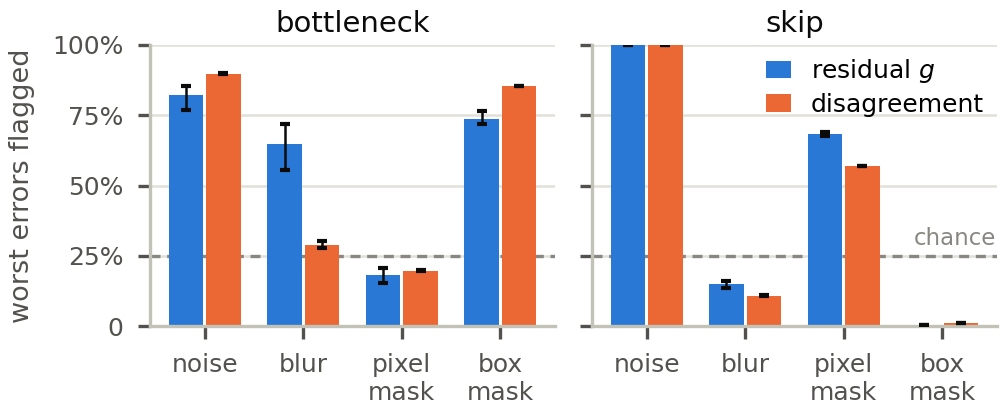
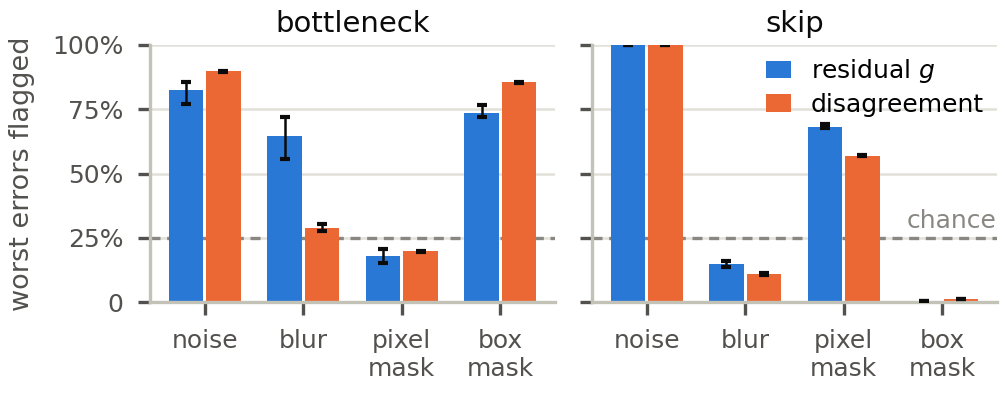
Tighten three report statements and polish Fig. 2
- report: the skip model's initial output spread is compared with clean
  images again (0.27), and the text again says a start as constant as the
  bottleneck's is not required. Disagreement ranks better within a level
  except for the skip model at lambda_id = 0. The abstract names the
  level-mean predictor and states the shared blind spots in a sentence of
  their own. Stable-but-wrong images are defined where they are counted, and
  the four settings are those of Table 2. Heading and float spacing are
  slightly tighter, so the report stays at three pages.
- Fig. 2: the caption calls the whiskers the seed range, the chance label is
  6 pt, and the PDF carries no creation date, so reruns give the same file.
- report_numbers.py: the 1e-12 entry names the README sentence it supports.

diff --git a/report/main.tex b/report/main.tex
@@ -14,14 +14,15 @@
 
 \graphicspath{{../results/}}
 % Heading spacing a little tighter than the article defaults, as in two-column templates.
-\titlespacing*{\section}{0pt}{2.2ex plus 0.4ex minus 0.2ex}{1.0ex plus 0.2ex}
-\titlespacing*{\subsection}{0pt}{1.8ex plus 0.3ex minus 0.2ex}{0.7ex plus 0.2ex}
+\titlespacing*{\section}{0pt}{1.9ex plus 0.4ex minus 0.2ex}{0.9ex plus 0.2ex}
+\titlespacing*{\subsection}{0pt}{1.5ex plus 0.3ex minus 0.2ex}{0.6ex plus 0.2ex}
 \titlespacing*{\paragraph}{0pt}{1.5ex plus 0.3ex minus 0.2ex}{1em}
 % Tighter space around floats, so three pages hold the tables, the figure and the bibliography.
 \setlength{\textfloatsep}{6pt}
 \setlength{\dblfloatsep}{6pt}
 \setlength{\dbltextfloatsep}{6pt}
 \setlength{\intextsep}{6pt}
+\setlength{\floatsep}{6pt}
 \newcommand{\norm}[1]{\lVert #1 \rVert}
 \newcommand{\lid}{\lambda_{\mathrm{id}}}
 
@@ -44,9 +45,9 @@ the model's own displacement. For learned models it ranks errors within a corrup
 skip connections), but each architecture has an unseen corruption under which its outputs are
 stable but wrong and the residual misses them: pixel masks for the bottleneck model, large box
 masks for the skip model. A conformal error bar built on the residual holds its nominal 90\%
-coverage over all images but covers only 61\% and 74\% of pixel-mask images in the two models, and
-cross-seed disagreement shares the blind spots. For the bottleneck model, per-level calibration lifts
-the residual's pooled ranking from 0.55 to 0.89, but each level's mean error alone reaches 0.77. A strong idempotence
+coverage over all images but covers only 61\% and 74\% of pixel-mask images in the two models.
+Cross-seed disagreement shares the blind spots. For the bottleneck model, per-level calibration lifts
+the residual's pooled ranking from 0.55 to 0.89, but a level-mean predictor already reaches 0.77. A strong idempotence
 penalty makes the residual a worse signal, and without a warm-up both models collapse to constant
 images.
 \end{abstract}
@@ -83,8 +84,8 @@ features include $\norm{A_s f(y) - y}$; we test the residual itself and how idem
 changes it. We also use split conformal
 prediction~\cite{angelopoulos2021gentle}, applied to imaging
 in~\cite{teneggi2023krcps,everink2025sscp}, the excess area under the risk-coverage
-curve~\cite{geifman2019bias}, and, for language models, the proposal to complement
-self-consistency with cross-model disagreement~\cite{hamidieh2026disagreement}.
+curve~\cite{geifman2019bias}, and, for language models, cross-model disagreement as a complement
+to self-consistency~\cite{hamidieh2026disagreement}.
 
 \section{Method}
 
@@ -190,7 +191,7 @@ sparse dots into a dim garment and treats it as a fixed point. Pixel masks hold 
 worst-quartile errors, and $g$ flags 18\% of them, fewer than a random score (Fig.~\ref{fig:blind}).
 The skip model has the opposite blind spot: under box masks its within-level $\rho$ drops to 0.29
 and 0.12 (bottleneck: 0.83 and 0.71), it flags under 1\% of the worst box-mask errors, and 83--87\%
-of its stable-but-wrong images are large boxes.
+of its stable-but-wrong images (top-10\% error, below-median $g$) are large boxes.
 
 \begin{figure}[t]
   \centering
@@ -204,8 +205,8 @@ of its stable-but-wrong images are large boxes.
   \centering
   \includegraphics[width=\columnwidth]{blind_spots.pdf}
   \caption{Blind spots: share of each family's worst-quartile errors that a signal flags
-    (quartiles over all levels; $\lid = 0$, mean over seeds, whiskers span them; dashed: chance).
-    The residual misses pixel masks in the bottleneck model and box masks and blur in the skip
+    (quartiles over all levels; $\lid = 0$, mean over seeds, whiskers: seed range; dashed: chance).
+    The residual misses pixel masks in the bottleneck model, and box masks and blur in the skip
     model; disagreement misses the same families and is near chance on the bottleneck's blur.}
   \label{fig:blind}
 \end{figure}
@@ -215,9 +216,9 @@ of its stable-but-wrong images are large boxes.
 Without a warm-up, $\lid = 1$ collapses both architectures within one epoch to a constant image:
 the bottleneck model to the per-pixel median training image (validation error 0.2106, residual
 $10^{-6}$), the skip model to black (0.2885; residual $10^{-10}$), far above the $\lid = 0$
-solutions (about 0.05): failures of optimization. The skip model starts far from constant (its
-outputs vary across inputs by $8\cdot10^{-3}$, the bottleneck's by $5\cdot10^{-6}$), so a constant
-start is not required.
+solutions (about 0.05): failures of optimization. At initialization the outputs vary across inputs
+by $5\cdot10^{-6}$ (bottleneck) and $8\cdot10^{-3}$ (skip; clean images: 0.27), so a start as
+constant as the bottleneck's is not required.
 
 With the warm-up, mean error changes little (0.092 to 0.095; 0.086 to 0.084) but the residual
 falls by 40\% and 61\% and becomes a worse signal: within-level $\rho$ falls from 0.70 to 0.62 and
@@ -243,7 +244,7 @@ $\rho$ (0.06 and 0.05 against 0.02) and shrink $g$ more (40\% and 26\% against 6
 \end{table}
 After per-level calibration, pooled $\rho$ is
 0.89 for $g$, 0.93 for $d$ and 0.94 for $r_A$ in the bottleneck model and 0.92--0.93 in the skip
-model, whose fits reverse $d$ and $r_A$ under noise, while the level-mean predictor already
+model, whose fits reverse $d$ and $r_A$ under noise, while the level-mean predictor
 reaches 0.77 and 0.84; when only the family is
 known, $g$ is the best calibrated signal in both (0.84 and 0.79).
 
@@ -260,10 +261,10 @@ the skip model, whose residual ranks pixel-mask errors well (Table~\ref{tab:cove
 on the two training noise levels and deployed on the other eleven, coverage falls to 0.48 ($g$)
 and 0.19 ($d$, $r_A$) for the bottleneck model and to 0.16 and 0.26 for the skip model.
 
-Deeper iterates rank worse in three of the four settings ($g_2$ 0.63 against 0.70 here), with
-unchanged coverage.
-Ensemble disagreement ranks better within a level in three settings (0.79 against 0.70 here; skip
-at $\lid = 0$: 0.84 against 0.86) and loses less under the penalty, but it misses the same families
+Deeper iterates rank worse in three of the four settings of Table~\ref{tab:coverage} ($g_2$ 0.63
+against 0.70 here), with unchanged coverage.
+Ensemble disagreement ranks better within a level, except for the skip model at $\lid = 0$ (0.79
+against 0.70 here; 0.84 against 0.86 there), and loses less under the penalty, but it misses the same families
 (Fig.~\ref{fig:blind}) and its bound covers 0.59 of pixel masks: three seeds of one architecture
 fail the same way on an unseen operator. Rejecting the 20\% of images with the
 largest $g$ lowers mean error from 0.092 to 0.084 (oracle 0.064); rejecting by $d$, $r_A$ or
@@ -276,8 +277,8 @@ A small idempotence residual is weak evidence of a correct restoration: for a pr
 none, and for the learned models it is useful within a level but misses an unseen corruption whose
 outputs are stable and wrong. Which corruption this is depends on the architecture, so a residual
 validated on some corruptions need not transfer. As an error bar this becomes a cost: the marginal
-guarantee holds while coverage on unseen masks, including the family the model is blind to, fails
-with no warning.
+guarantee holds while coverage on unseen masks, including the model's blind spot, fails with no
+warning.
 
 With $\lid = 1$ the residual became a worse signal while restoration held. A diagnostic that is
 also optimized as a loss can lose information; here the loss in brightness-controlled ranking,

diff --git a/scripts/plot_blind_spots.py b/scripts/plot_blind_spots.py
@@ -49,7 +49,7 @@ def plot(table, path):
     import matplotlib.pyplot as plt
 
     # Drawn at the printed size of one report column, so the 6-7 pt text stays readable.
-    fig, axes = plt.subplots(1, 2, figsize=(3.35, 1.4), sharey=True)
+    fig, axes = plt.subplots(1, 2, figsize=(3.35, 1.32), sharey=True)
     width = 0.38
     x = np.arange(len(FAMILIES))
     for ax, architecture in zip(axes, ARCHITECTURES):
@@ -71,11 +71,11 @@ def plot(table, path):
         ax.set_ylim(0, 1.0)
         ax.set_yticks([0, 0.25, 0.5, 0.75, 1.0], ["0", "25%", "50%", "75%", "100%"])
     axes[0].set_ylabel("worst errors flagged", fontsize=6.5, color=INK_SECONDARY)
-    axes[1].text(len(FAMILIES) - 0.45, 0.27, "chance", fontsize=5.5, color=MUTED, ha="right", va="bottom")
+    axes[1].text(len(FAMILIES) - 0.45, 0.27, "chance", fontsize=6, color=MUTED, ha="right", va="bottom")
     axes[1].legend(loc="upper right", frameon=False, fontsize=6, handlelength=1.0, borderaxespad=0.1,
                    labelspacing=0.3)
     fig.tight_layout(pad=0.2, w_pad=0.6)
-    fig.savefig(path.with_suffix(".pdf"))
+    fig.savefig(path.with_suffix(".pdf"), metadata={"CreationDate": None})  # reruns give the same file
     fig.savefig(path.with_suffix(".png"), dpi=300)
     plt.close(fig)
 

diff --git a/scripts/report_numbers.py b/scripts/report_numbers.py
@@ -1,7 +1,7 @@
-"""Numbers the report states that no other results file holds, computed from the per-image dumps.
+"""Numbers the report and the README state that no other results file holds, from the per-image dumps.
 
-Writes results/report_numbers.json. Each entry names the report sentence it supports; every other
-number in the report comes from results/*.csv, results/checks.json or the generated tables.
+Writes results/report_numbers.json. Each entry names the sentence it supports; every other number
+in the report comes from results/*.csv, results/checks.json or the generated tables.
 
     python scripts/report_numbers.py
 """
@@ -52,7 +52,7 @@ def main():
     projectors = bottleneck[noise & bottleneck["model"].isin(["radial", "pca64"])]
     numbers["projector_max_g_lin_noise"] = {
         "value": float(projectors["g_lin"].max()),
-        "claim": "Sec. 3.1: the right side of Eq. (1) (radial and PCA-64 under noise) is at most 1e-12",
+        "claim": "README, finding 1: the linearized term (radial and PCA-64 under noise) is at most 1e-12",
     }
 
     taylor = []
